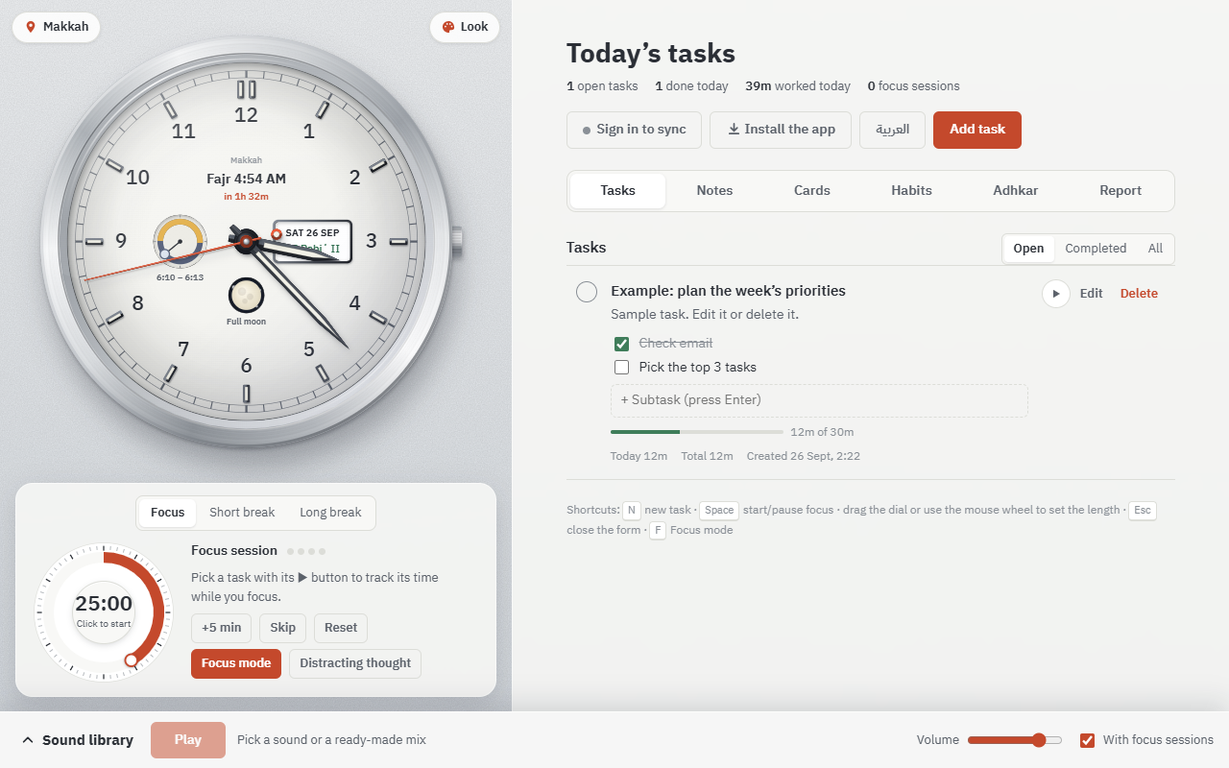
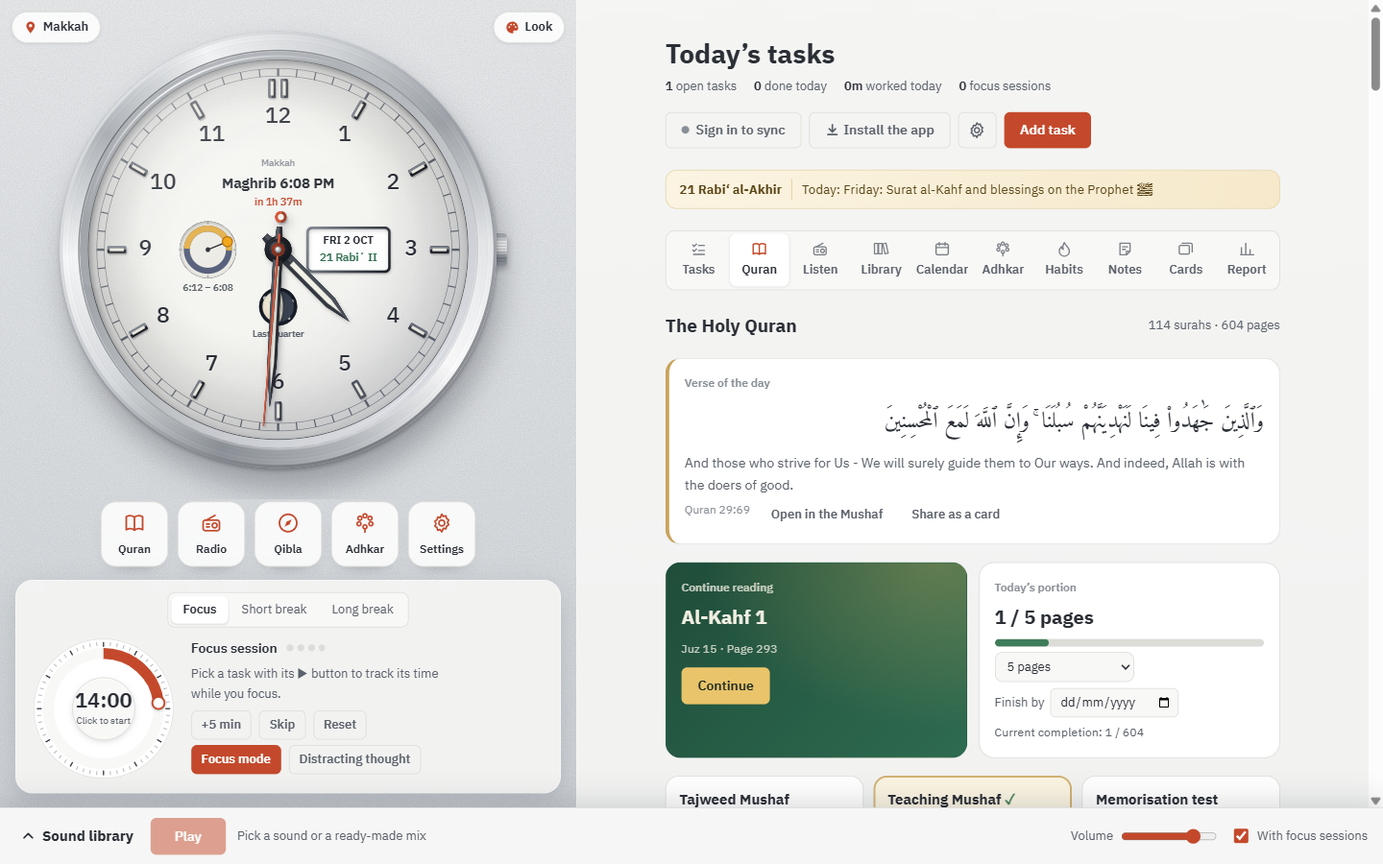
README: the project page for 1.7 — what's new, phone screenshots, sources
New phone screenshots (home, Mushaf, Listen, Settings, fonts, library, adhkar)
and fresh desktop ones in both languages; the Listen tab, live TV, Settings,
fonts and the new books in the features; how releases are tested on an
emulator before they are published, the daily sources check, and the full list
of sources and licences; a fuller Arabic section.

diff --git a/README.md b/README.md
@@ -2,26 +2,46 @@
 
 <img src="docs/logo.svg" width="96" height="96" alt="Muslim To-Do List logo">
 
-# Muslim To-Do List
+# Muslim To-Do List · قائمة مهام المسلم
 
-**Plan your day around the prayers — tasks, focus timer, habits, adhkar and focus sounds, in Arabic and English.**
+**Plan your day around the prayers — the Quran, hadith, Quran radio and live TV from Makkah and Madinah, adhkar, tasks and focus, in Arabic and English.**
+
+**نظّم يومك حول الصلاة: المصحف، والحديث، وإذاعات القرآن، والبث المباشر من الحرمين، والأذكار، والمهام والتركيز.**
 
 [![Open the app](https://img.shields.io/badge/Open%20the%20app-→-c4502b?style=for-the-badge)](https://micro4tricks-ai.github.io/muslim-todo-list/)
 &nbsp;
-[![Android APK](https://img.shields.io/github/v/release/micro4tricks-ai/muslim-todo-list?style=for-the-badge&logo=android&logoColor=white&label=Android%20APK&color=3DDC84)](https://github.com/micro4tricks-ai/muslim-todo-list/releases/latest)
+[![Android APK](https://img.shields.io/github/v/release/micro4tricks-ai/muslim-todo-list?style=for-the-badge&logo=android&logoColor=white&label=Android%20APK&color=3DDC84)](https://micro4tricks-ai.github.io/muslim-todo-list/muslim-todo-list.apk)
 &nbsp;
 ![PWA](https://img.shields.io/badge/PWA-installable-5A0FC8?style=for-the-badge&logo=pwa&logoColor=white)
 &nbsp;
-![Supabase sync](https://img.shields.io/badge/Sync-Supabase-3FCF8E?style=for-the-badge&logo=supabase&logoColor=white)
+![Free, no ads](https://img.shields.io/badge/Free-no%20ads-2E8B6E?style=for-the-badge)
 
 ![License: MIT](https://img.shields.io/badge/License-MIT-blue?style=flat-square)
-[![Android build](https://img.shields.io/github/actions/workflow/status/micro4tricks-ai/muslim-todo-list/android.yml?style=flat-square&label=Android%20build)](https://github.com/micro4tricks-ai/muslim-todo-list/actions/workflows/android.yml)
+[![Android build](https://img.shields.io/github/actions/workflow/status/micro4tricks-ai/muslim-todo-list/android.yml?style=flat-square&label=Android%20build%20%2B%20emulator%20test)](https://github.com/micro4tricks-ai/muslim-todo-list/actions/workflows/android.yml)
+[![Sources check](https://img.shields.io/github/actions/workflow/status/micro4tricks-ai/muslim-todo-list/sources.yml?style=flat-square&label=daily%20sources%20check)](https://github.com/micro4tricks-ai/muslim-todo-list/actions/workflows/sources.yml)
 ![Last commit](https://img.shields.io/github/last-commit/micro4tricks-ai/muslim-todo-list?style=flat-square)
 [![Downloads](https://img.shields.io/github/downloads/micro4tricks-ai/muslim-todo-list/total?style=flat-square&label=APK%20downloads)](https://github.com/micro4tricks-ai/muslim-todo-list/releases)
 
-<a href="https://micro4tricks-ai.github.io/muslim-todo-list/"><img src="docs/screenshot.png" alt="Muslim To-Do List: prayer-times clock, focus timer and tasks" width="860"></a>
+<a href="https://micro4tricks-ai.github.io/muslim-todo-list/"><img src="docs/screenshot.png" alt="Muslim To-Do List: the prayer-times clock, the quick bar and the Listen tab with Quran radio" width="860"></a>
 
-[**Open the app**](https://micro4tricks-ai.github.io/muslim-todo-list/) · [English version](https://micro4tricks-ai.github.io/muslim-todo-list/en/) · [Install on your phone](https://micro4tricks-ai.github.io/muslim-todo-list/install.html) · [Report a problem](https://github.com/micro4tricks-ai/muslim-todo-list/issues/new/choose)
+[**Open the app**](https://micro4tricks-ai.github.io/muslim-todo-list/) · [English version](https://micro4tricks-ai.github.io/muslim-todo-list/en/) · [**Download for Android**](https://micro4tricks-ai.github.io/muslim-todo-list/muslim-todo-list.apk) · [Install on any device](https://micro4tricks-ai.github.io/muslim-todo-list/install.html) · [Report a problem](https://github.com/micro4tricks-ai/muslim-todo-list/issues/new/choose) · [**بالعربي**](#بالعربي)
+
+<br>
+
+<table>
+  <tr>
+    <td align="center"><img src="docs/screens/home.png" width="190" alt="Home: the prayer clock and the quick bar"><br><sub>Home · الرئيسية</sub></td>
+    <td align="center"><img src="docs/screens/quran.png" width="190" alt="The Mushaf with tafsir under each verse"><br><sub>The Mushaf · المصحف</sub></td>
+    <td align="center"><img src="docs/screens/listen.png" width="190" alt="Quran radio from Cairo and Saudi Arabia, and 177 stations"><br><sub>Listen · استماع</sub></td>
+    <td align="center"><img src="docs/screens/settings.png" width="190" alt="The Settings screen"><br><sub>Settings · الإعدادات</sub></td>
+  </tr>
+  <tr>
+    <td align="center"><img src="docs/screens/fonts.png" width="190" alt="Choosing the Arabic and English fonts"><br><sub>Fonts · الخطوط</sub></td>
+    <td align="center"><img src="docs/screens/library.png" width="190" alt="The library: tools and the hadith books"><br><sub>Library · المكتبة</sub></td>
+    <td align="center"><img src="docs/screens/adhkar.png" width="190" alt="Adhkar and duas"><br><sub>Adhkar · الأذكار</sub></td>
+    <td align="center"><img src="docs/screenshot-en.png" width="190" alt="The English interface on a computer"><br><sub>English · الإنجليزية</sub></td>
+  </tr>
+</table>
 
 </div>
 
@@ -30,13 +50,13 @@
 ## Contents
 
 - [About](#about)
+- [What's new in 1.7](#whats-new-in-17)
 - [Features](#features)
-- [Screenshots](#screenshots)
 - [Install](#install)
 - [Tech stack](#tech-stack)
 - [Run locally](#run-locally)
 - [Sync between devices (Supabase)](#sync-between-devices-supabase)
-- [Android releases](#android-releases)
+- [Releases and quality checks](#releases-and-quality-checks)
 - [Project structure](#project-structure)
 - [Contributing](#contributing)
 - [Privacy](#privacy)
@@ -46,46 +66,44 @@
 
 ## About
 
-A calm daily planner built around the five prayers. The left side is a watch-face clock that shows the next prayer, sunrise and sunset, the moon phase and the Hijri and Gregorian dates. The right side is your day: tasks split around the prayers, sticky notes, review cards, habits, adhkar and a focus report. A Pomodoro timer and a library of focus sounds sit underneath.
+A calm daily companion built around the five prayers, made as an ongoing charity (*sadaqa jariya*): **free, with no ads and no tracking**. A watch-face clock shows the next prayer, sunrise and sunset, the moon and the Hijri and Gregorian dates. Around it: the full Mushaf with nine tafsirs, the six hadith books and more, Quran radio and live TV from the Two Holy Mosques, adhkar, a Hijri calendar with Sunnah fasting reminders, and a day of tasks, habits and focus sessions.
 
-It runs in any browser, installs as an app on phones, tablets and desktops, works offline after the first visit, and can sync between your devices. It opens in Arabic by default; one button switches everything to English.
+It runs in any browser, installs as an app on phones, tablets and computers, works offline after the first visit, and can sync between your devices. It opens in Arabic; one switch turns everything to English.
+
+## What's new in 1.7
+
+| | |
+|---|---|
+| 📻 **Quran radio that keeps playing** | In the Android app the Listen tab plays through a native player (Media3 / ExoPlayer): it carries on with the screen off, shows the media notification and lock-screen controls, pauses for calls and the adhan and comes back after. Quran Radio from **Cairo** and from **Saudi Arabia** now play in the app. |
+| 📺 **Live TV without ads** | The Quran channel from al-Masjid al-Haram and the Sunnah channel from the Prophet's Mosque. In the app it starts with the broadcaster's own stream (up to 1080p, no ads), then YouTube, then a lighter link — each one handing over to the next if it fails. |
+| ⚙ **A real Settings screen** | One screen, laid out like Android's: language, location and prayer times, adhan and alerts, colours, fonts, account, about. The phone's back key steps back through it. |
+| 🔤 **Fonts** | 9 Arabic fonts (IBM Plex, Cairo, Tajawal, Almarai, Noto Kufi, Noto Naskh, Readex, El Messiri, Amiri) and 5 English ones, each with a live sample — kept with the app, so they work offline. |
+| 📚 **More books** | Sunan ad-Darimi, Musnad Ahmad (the Rightly Guided Caliphs' part) and Shah Waliullah's Forty — 17 books in the library. |
+| ↩ **Back key** | Steps back (a book, a reciter, focus mode, Settings, the Mushaf) instead of closing the app; at the start it sends the app to the background, so the radio and the adhan carry on. |
 
 ## Features
 
 | | Feature | Details |
 |:-:|---|---|
-| 🕰 | **Prayer clock** | Watch-face clock with the next prayer and a countdown, sunrise/sunset, moon phase, Hijri + Gregorian date. 32 countries and 12 calculation methods (Egyptian Survey, Umm al-Qura, Dubai…). Custom dial, frame and background colours. |
-| 📖 | **The Holy Quran** | The full Mushaf in the Uthmani script (Hafs, Tanzil text) with the Sahih International English translation, verse-by-verse recitation from 9 reciters (including al-Husary’s teaching recitation), a colour-coded tajweed Mushaf, a teaching mode (repeat each verse, pause to repeat after the reciter, slower speed) and a memorisation test, 9 tafsirs (al-Muyassar, as-Sa‘di, Ibn Kathir, at-Tabari, al-Qurtubi, al-Baghawi, al-Wasit, al-Jalalayn, and Ibn Kathir in English), word-by-word meanings with each word’s pronunciation, translations in ten languages, a completion plan by date, a verse of the day, a children’s Juz ‘Amma with stars, verses to memorisation cards, bookmarks, search (Arabic, English, `2:255` or a page number), "continue reading", a daily wird counted in pages, completion tracking, and light / sepia / night pages. Works offline once opened. |
-| 📅 | **Hijri calendar and Sunnah reminders** | Umm al-Qura month view with a day shift for local moon sighting; reminders the evening before Monday and Thursday fasts, the White Days (13–15), Arafah, Tasu‘a and Ashura, six of Shawwal, Ramadan and its last ten nights, and the ten days of Dhul-Hijjah; no-fasting days (the two Eids, Tashreeq) are marked. Each one shows its hadith with the reference and grading. Friday (Surat al-Kahf) and morning/evening adhkar reminders too. |
-| 📚 | **Library** | The six hadith books (al-Bukhari, Muslim, Abu Dawud, at-Tirmidhi, an-Nasa’i, Ibn Majah) and al-Muwatta, in Arabic with English, plus an-Nawawi’s Forty, the Forty Qudsi, Riyad as-Salihin, Bulugh al-Maram, al-Adab al-Mufrad, ash-Shama’il and Mishkat al-Masabih, and the gradings of al-Albani, Shu‘ayb al-Arna’ut, Ahmad Shakir and others; a “sahih and hasan only” filter, search and hadith numbers, saved hadiths. Chapters download on first use and stay offline. |
-| 🕋 | **My prayers** | Log each prayer (in congregation, on time, late, missed), the twelve sunnah rak‘ahs, witr, duha and qiyam; a week at a glance and a count of prayers to make up. |
-| 🌙 | **Ramadan** | Imsak and iftar countdowns, the iftar and Laylat al-Qadr supplications, a tracker for the month’s fasts (and days to make up), a shareable imsakiya, and a suhoor reminder. |
-| 🧰 | **Tools** | Zakat calculator (gold/silver nisab, savings, trade goods, debts, jewellery option, Zakat al-Fitr), Umrah and Hajj guides with their hadiths, the 99 Names, istikhara, nearby mosques (OpenStreetMap), Hijri ⇄ Gregorian converter, and a backup file. |
-| 🕌 | **The Prophet’s prayer ﷺ** | The prayer from the takbir to the taslim in the order of al-Albani’s *Sifat Salat an-Nabi*, each step with its authentic hadith (the book itself is linked on al-Maktaba al-Shamela, not copied). |
-| 🧭 | **Qibla** | Direction and distance to the Kaaba from your place, with a live compass on phones. |
-| ✅ | **Tasks** | Subtasks, estimated time, time tracking, and the day split by prayer (after Fajr, after Dhuhr…). Keyboard shortcuts. |
-| 🎯 | **Focus** | Pomodoro timer with a draggable dial, full-screen focus mode, a "distracting thought" box, useful breaks (dhikr, movement, water, breathing) and prayer alerts. |
-| 🗒 | **Sticky notes** | Coloured notes you drag to arrange and pin; turn any note into a task. |
-| 🃏 | **Review cards** | Question-and-answer decks with spaced repetition (Leitner system), card designs per deck and a daily review reminder. |
-| 🔔 | **Reminder cards and the adhan** | Reminders appear as designed cards (six designs) that can be shared as images; the prayer alert plays one of four adhan recordings (see `sounds/adhan/CREDITS.md`), with a separate Fajr adhan and an iqamah reminder, also as the Android notification sound. |
-| 📲 | **Home-screen widget** | Android widget with the next prayer, a live countdown and the day’s five times. |
-| 🔁 | **Habits and wird** | Adhkar, Quran reading, istighfar, qiyam, fasting… with streaks and a 12-week calendar. |
-| 📿 | **Adhkar and duas** | Morning and evening, after prayer, for students, ease and success, worry and clarity, ruqyah, sleep and istighfar — with a counter, audio recitation and a tasbih. |
-| 📊 | **Report** | Today, the last week or month, or any range: focus, tasks, habits, Quran pages and fasting days, with charts and your best time to focus. |
-| 🎧 | **Focus sounds** | 32 recordings (rain, nature, places, noise, binaural…) that you mix, plus your own music folder from the device. |
-| 🌗 | **Dark mode and text size** | Light, dark or following the device, for the whole app, and four text sizes. |
-| 🌐 | **Arabic ⇄ English** | Full RTL/LTR switch, remembered per device. Direct English link: `/en/` or `?lang=en`. |
+| 🕰 | **Prayer clock** | Watch-face clock with the next prayer and a countdown, sunrise/sunset, moon phase, Hijri + Gregorian date. 32 countries and 12 calculation methods (Egyptian Survey, Umm al-Qura, Dubai…). Custom dial, frame and background. |
+| 📖 | **The Holy Quran** | The full Mushaf in the Uthmani script (Hafs, Tanzil text) with the Sahih International translation; verse-by-verse recitation from 9 reciters (including al-Husary's teaching recitation); a colour-coded tajweed Mushaf; a teaching mode (repeat each verse, pause to repeat after the reciter, slower speed) and a memorisation test; **9 tafsirs** (al-Muyassar, as-Sa‘di, Ibn Kathir, at-Tabari, al-Qurtubi, al-Baghawi, al-Wasit, al-Jalalayn, Ibn Kathir in English), shown under each verse if you like; word-by-word meanings with pronunciation; a completion plan; a daily wird; Juz ‘Amma for children; bookmarks, search, "continue reading", and light / sepia / night pages. Works offline once opened. |
+| 📻 | **Listen** | **177 Quran radio stations** (reciters, mixed and adhkar, tafsir and lessons, translations of the meanings) plus Quran Radio from Cairo; **241 reciters** in every riwayah (Hafs, Warsh, Qalun, ad-Duri…), whole surahs one after another; **audio tafsir** (at-Tabari's summary, by surah and verses); favourites, "continue listening" from the same minute, and a sleep timer. |
+| 📺 | **Live TV** | Live from al-Masjid al-Haram and the Prophet's Mosque — the official broadcast of the Quran and Sunnah channels, in the app without ads. |
+| 📅 | **Hijri calendar and Sunnah reminders** | Umm al-Qura month view with a day shift for local moon sighting; reminders for Monday and Thursday fasts, the White Days, Arafah, Ashura, six of Shawwal, Ramadan and its last ten nights, and the ten days of Dhul-Hijjah, each with its hadith, reference and grading; no-fasting days marked; Friday and adhkar reminders. |
+| 📚 | **Library** | The six hadith books and al-Muwatta (Arabic with English and the gradings of al-Albani, Shu‘ayb al-Arna’ut, Ahmad Shakir and others; a "sahih and hasan only" filter), plus Sunan ad-Darimi, Musnad Ahmad (the Caliphs' part), an-Nawawi's Forty, the Forty Qudsi, Shah Waliullah's Forty, Riyad as-Salihin, Bulugh al-Maram, al-Adab al-Mufrad, ash-Shama’il and Mishkat al-Masabih. Search, hadith numbers, saved hadiths; chapters stay offline once read. |
+| 🕌 | **The Prophet's prayer ﷺ** | The prayer from the takbir to the taslim in the order of al-Albani's *Sifat Salat an-Nabi*, each step with its authentic hadith (the book itself is linked on al-Maktaba al-Shamela, not copied). |
+| 🕋 | **My prayers** | Log each prayer (in congregation, on time, late, missed), the sunnah rak‘ahs, witr, duha and qiyam; a week at a glance and a count of prayers to make up. |
+| 🌙 | **Ramadan** | Imsak and iftar countdowns, the iftar and Laylat al-Qadr supplications, a fasting tracker, a shareable imsakiya and a suhoor reminder. |
+| 🧰 | **Tools** | Zakat calculator, Umrah and Hajj guides with their hadiths, the 99 Names, istikhara, nearby mosques (OpenStreetMap), Hijri ⇄ Gregorian converter, and a backup file. |
+| 🧭 | **Qibla** | Direction and distance to the Kaaba, with a live compass on phones. |
+| 📿 | **Adhkar and duas** | Morning and evening, after prayer, for students, ease, worry, ruqyah, sleep and istighfar — with a counter, audio and a tasbih. |
+| 🔔 | **Adhan and alerts** | Four adhan recordings plus a separate Fajr adhan, played by the phone's alarm clock even when the app is closed (and, if you wish, on silent mode); an iqamah reminder; reminders as designed cards you can share. |
+| 📲 | **Home-screen widget** | The next prayer, a live countdown and the day's five times. |
+| ✅ | **Tasks and focus** | Tasks with subtasks and time tracking, the day split by prayer; a Pomodoro timer, full-screen focus mode, useful breaks, sticky notes, review cards with spaced repetition, habits with streaks, and a report with charts. |
+| 🎧 | **Focus sounds** | 32 recordings (rain, nature, places, noise…) to mix, plus your own music folder. |
+| ⚙ | **Settings, fonts, dark mode** | One Settings screen; 9 Arabic and 5 English interface fonts; light, dark or following the device; four text sizes. |
+| 🌐 | **Arabic ⇄ English** | Full RTL/LTR switch. Direct English link: `/en/` or `?lang=en`. |
 | 🔄 | **Sync** | Email and password sign-in; tasks and settings sync across devices through Supabase. |
-| 📱 | **Installable** | PWA on every platform, plus a free Android app with prayer, fasting and season notifications that arrive even when the app is closed. |
-
-## Screenshots
-
-<table>
-  <tr>
-    <td width="50%"><img src="docs/screenshot.png" alt="Arabic interface"><p align="center"><sub>Arabic (default)</sub></p></td>
-    <td width="50%"><img src="docs/screenshot-en.png" alt="English interface"><p align="center"><sub>English</sub></p></td>
-  </tr>
-</table>
 
 ## Install
 
@@ -93,24 +111,25 @@ Step-by-step page for every device: **[install.html](https://micro4tricks-ai.git
 
 | Device | How |
 |---|---|
-| **Android** | Download the [APK from the site](https://micro4tricks-ai.github.io/muslim-todo-list/muslim-todo-list.apk) (also on the [releases page](https://github.com/micro4tricks-ai/muslim-todo-list/releases/latest)). It is a full app, and prayer alerts arrive even when it is closed. Or use "Install app" in Chrome. |
+| **Android** | Download the [APK from the site](https://micro4tricks-ai.github.io/muslim-todo-list/muslim-todo-list.apk) (also on the [releases page](https://github.com/micro4tricks-ai/muslim-todo-list/releases/latest)). To update later: Settings → About → "Check for updates". |
 | **iPhone / iPad** | In Safari: Share → "Add to Home Screen". |
-| **Desktop** | The "Install the app" button above the task list, or the install icon in the address bar. |
+| **Computer** | The "Install the app" button above the task list, or the install icon in the address bar. |
 
-After the first visit the app works offline (`sw.js`), and every sound you have played once is kept on the device.
+After the first visit the app works offline (`sw.js`); the radio, live TV and recitations need the internet.
 
 ## Tech stack
 
 | Layer | Used |
 |---|---|
 | App | HTML5, CSS3 and vanilla JavaScript — no framework, no build step |
-| Clock | Canvas 2D, with a lighter path on touch devices for smooth phone performance |
+| Clock | Canvas 2D, with a lighter path on touch devices |
 | Prayer times | Own implementation of the [PrayTimes.org](http://praytimes.org) algorithm |
 | Offline / install | Service worker (`sw.js`) + Web App Manifest |
-| Sync | [Supabase](https://supabase.com) (Postgres with row-level security, email and password auth) |
-| Android | [Capacitor](https://capacitorjs.com) 8 with native local notifications |
-| CI/CD | GitHub Actions: signed APK on every `v*` tag, emulator smoke test, GitHub Pages deploy |
-| Data tools | Python scripts that build the adhkar, Mushaf and hadith data from their sources, so no religious text is typed by hand |
+| Sync | [Supabase](https://supabase.com) (Postgres with row-level security) |
+| Android | [Capacitor](https://capacitorjs.com) 8; native Java for the adhan (alarm clock + foreground service), the widget, the back key and the Listen player ([Media3 ExoPlayer](https://developer.android.com/media/media3) with a media session) |
+| Live TV | [hls.js](https://github.com/video-dev/hls.js) (local copy) and the YouTube IFrame API |
+| CI/CD | GitHub Actions: signed APK on every `v*` tag, a full test on an Android emulator before the release is published, GitHub Pages deploy, and a daily check of every outside source |
+| Data tools | Python and Node scripts that build the adhkar, Mushaf, hadith and font data from their sources, so no religious text is typed by hand |
 
 ## Run locally
 
@@ -120,103 +139,75 @@ cd muslim-todo-list
 python -m http.server 8765      # then open http://localhost:8765
 ```
 
-On Windows you can also double-click `تشغيل.bat`, which starts a small local server so the sounds loop without a gap. Opening `index.html` directly works too.
+On Windows you can also double-click `تشغيل.bat`.
 
 ## Sync between devices (Supabase)
 
-The **Sync** button signs in with an email and password (with a sign-in link as a fallback) and syncs your tasks and settings across devices. To set it up once on your own Supabase project:
+The account (Settings → Account & sync) signs in with an email and password and syncs tasks and settings. To set it up on your own Supabase project:
 
 1. Create a free project on [supabase.com](https://supabase.com).
-2. **SQL Editor → New query:** paste `supabase/schema.sql` and press **Run**.
-3. **Authentication → URL Configuration:** set *Site URL* to the site's address, and add the site and `http://localhost:8765/` to *Redirect URLs*.
+2. **SQL Editor:** run `supabase/schema.sql`.
+3. **Authentication → URL Configuration:** set the *Site URL* and add the site and `http://localhost:8765/` to *Redirect URLs*.
 4. **Project Settings → API:** copy the *Project URL* and the *anon public key* into `js/config.js`.
 
-**Synced:** tasks (with subtasks and time), city and calculation method, appearance, sound choices, language.
-**Kept per device:** the focus timer, the background image, the music folder.
+## Releases and quality checks
 
-## Android releases
+1. Push a version tag: `git tag v1.7.2 && git push origin v1.7.2`.
+2. GitHub Actions builds a signed APK, installs the debug build on an **Android emulator** and goes through the app like a person would: every tab, the Mushaf, the library, both Quran radios on the native player, live TV, every Settings page, a font change, the back key, the adhan, the widget, and a renderer crash it must recover from. It measures memory and freezes, and **the release is published only if nothing is wrong**.
+3. The site is redeployed with the new APK next to it and `version.json`, which the app's "Check for updates" reads.
 
-1. Edit the site files as usual.
-2. Create and push a version tag: `git tag v1.0.5 && git push origin v1.0.5`
-3. GitHub Actions builds a signed APK, publishes it on the releases page, and tests it on an Android emulator (screenshots are in the run's results).
+Every day, [`sources.yml`](.github/workflows/sources.yml) checks every outside service the app reads from (radio, TV, recitations, tafsir, hadith, adhkar audio) and turns red when one is down. Live links live in [`live.json`](live.json) on the site, so a dead link is fixed there **without an app update**.
 
-The signing key lives in the repository secrets, and its original copy is kept outside the repository. **Don't lose it:** every update must be signed with the same key, or phones will refuse to install it.
+The signing key lives in the repository secrets, and its original copy is kept outside the repository: every update must be signed with the same key.
 
 ## Project structure
 
 | Path | Description |
 |---|---|
-| `index.html` | The page and its styles |
-| `en/index.html` | Direct link to the English version |
-| `install.html` | Install steps for every device |
+| `index.html`, `en/`, `install.html` | The page and its styles, the English link, install steps |
 | `js/i18n.js` | Translation and the Arabic ⇄ English switch |
-| `js/clock.js` | Drawing the clock, hands and dial |
-| `js/astro.js` | Location, prayer times, moon and dates |
-| `js/look.js` | Dial, frame and page background colours |
-| `js/sounds.js` | Sound library |
-| `js/tasks.js` | Tasks and the focus timer |
-| `js/views.js` | Section tabs and shared helpers |
-| `js/notes.js` | Sticky notes |
-| `js/cards.js` | Review cards |
-| `js/habits.js` | Habits and wird |
-| `js/adhkar.js`, `js/adhkar-data.js` | Adhkar and duas, and their texts |
-| `js/focus-plus.js` | Distraction box, session log, useful breaks |
-| `js/focus-mode.js` | Full-screen focus mode |
-| `js/prayer-alerts.js` | Prayer alerts |
-| `js/report.js` | The report |
+| `js/clock.js`, `js/astro.js` | The clock; location, prayer times, moon and dates |
+| `js/look.js`, `fonts/` | Colours, backgrounds, text size and the interface fonts (`fonts/extra.css` from `tools/build_fonts.py`) |
+| `js/settings.js` | The Settings screen |
+| `js/views.js` | Tabs, shared helpers and the back-key handler |
 | `js/quran.js`, `js/quran-meta.js`, `quran/` | The Mushaf reader and its texts |
-| `js/sunnah.js`, `js/sunnah-data.js` | Hijri calendar, fasting and season reminders, and their evidence |
-| `js/qibla.js` | Qibla direction and compass |
-| `js/library.js`, `js/library-meta.js`, `js/salah-data.js` | The hadith library and the Prophet’s prayer |
-| `js/remind-card.js` | Reminder cards and sharing them as images |
-| `js/prayers.js` | My prayers: the five prayers, sunnah prayers and make-up count |
-| `js/tools.js`, `js/extras-data.js` | Zakat, Hajj and Umrah, the Names, istikhara, mosques, date converter, backup |
-| `sounds/adhan/` | Adhan recordings and their licences |
-| `js/config.js` | Supabase project settings |
-| `js/sync-core.js` | Rules for merging data between devices |
-| `js/sync.js` | Sign-in and sync |
-| `js/app.js` | Install button and home-screen shortcuts |
-| `js/native.js` | Prayer, focus and Sunnah notifications inside the Android app |
-| `js/vendor/supabase.js` | Supabase client (local copy, MIT license) |
-| `supabase/schema.sql` | Database table and its access rules |
-| `sounds/` | Sound recordings |
-| `manifest.webmanifest`, `icons/` | Installable-app metadata and icons |
-| `sw.js` | Offline support |
-| `tools/build_adhkar.py` | Builds the adhkar data from its sources |
-| `tools/build_quran.py` | Builds the Mushaf data from api.alquran.cloud (Tanzil) |
-| `tools/build_sunnah.py` | Cuts the hadith evidence out of the hadith collections |
-| `tools/build_salah.py` | Builds the prayer steps with their hadiths |
-| `tools/build_library.py` | Builds the index of the hadith library |
-| `tools/build_extras.py` | Builds the texts for the tools, Ramadan and the verse / hadith of the day |
-| `app/` | Android app project (Capacitor); it takes the site files as they are |
-| `fastlane/metadata/android/` | Store texts, icon and screenshots (Arabic and English) |
-| `docs/PUBLISHING.md` | How to list the app on F-Droid, Samsung, Huawei and Google Play |
-| `.github/workflows/android.yml` | Builds, signs, publishes and tests the APK |
-| `docs/` | Logo, screenshots and social preview |
+| `js/listen.js`, `live.json`, `tv.html`, `js/vendor/hls.light.min.js` | Radio, recitations, audio tafsir and live TV |
+| `js/library.js`, `js/library-meta.js`, `js/salah-data.js` | The hadith library and the Prophet's prayer |
+| `js/sunnah.js`, `js/sunnah-data.js` | Hijri calendar and Sunnah reminders |
+| `js/adhkar.js`, `js/adhkar-data.js` | Adhkar and duas |
+| `js/prayers.js`, `js/prayer-alerts.js`, `js/native.js` | My prayers, prayer alerts, and the Android notifications and adhan |
+| `js/tasks.js`, `js/notes.js`, `js/cards.js`, `js/habits.js`, `js/focus-*.js`, `js/report.js`, `js/sounds.js` | Tasks, notes, review cards, habits, focus, report, sounds |
+| `js/tools.js`, `js/qibla.js`, `js/remind-card.js` | Tools, Qibla, reminder cards |
+| `js/sync*.js`, `js/config.js`, `supabase/schema.sql` | Sync |
+| `app/` | The Android app (Capacitor); Java in `app/android/app/src/main/java/…/muslimtodo/` (`PlayerService`, `PlayerPlugin`, `Adhan*`, `PrayerWidget`, `MainActivity`) |
+| `app/scripts/smoke.mjs` | The emulator test |
+| `tools/build_*.py` | Build the Quran, adhkar, hadith, salah, extras and font data from their sources |
+| `tools/check_sources.mjs`, `tools/refresh_live.mjs` | The daily sources check and the live-video refresher |
+| `.github/workflows/` | `android.yml` (build, test, release), `pages.yml` (site), `sources.yml` (daily check) |
+| `fastlane/metadata/android/`, `docs/PUBLISHING.md` | Store texts and how to list the app in other stores |
 
 ## Contributing
 
-Bug reports and ideas are welcome.
-
-1. [Open an issue](https://github.com/micro4tricks-ai/muslim-todo-list/issues/new/choose) and describe the device, browser and what happened.
-2. For code changes: fork the repo, create a branch, run `node --check` on the scripts you changed, test in the browser, and open a pull request.
-3. New interface text needs an English entry in `js/i18n.js`.
-4. **Never type adhkar or Quran text by hand.** Regenerate `js/adhkar-data.js` with `python tools/build_adhkar.py`.
+Bug reports and ideas are welcome: [open an issue](https://github.com/micro4tricks-ai/muslim-todo-list/issues/new/choose) with the device and what happened. For code: fork, branch, run `node --check` on the scripts you changed, test in the browser, open a pull request. New interface text needs an English entry in `js/i18n.js`. **Never type Quran, hadith or adhkar text by hand** — regenerate it with the scripts in `tools/`.
 
 ## Privacy
 
-Without sync, everything stays in your browser's local storage and never leaves your device. If you turn on sync, your tasks and settings are stored in the project's Supabase database, protected by row-level security so each account can only read its own data. There are no ads and no analytics. Your music folder is played from your device and is never uploaded.
+Without sync, everything stays on your device. With sync, tasks and settings are stored in the project's Supabase database behind row-level security, so each account reads only its own data. **No ads, no analytics, no tracking.** Your music folder is played from your device and never uploaded.
 
 ## Sources and credits
 
-- **Adhkar:** texts from **Hisn al-Muslim** ([hisnmuslim.com](https://www.hisnmuslim.com)), and verses from the Mushaf through [api.alquran.cloud](https://alquran.cloud) (quran-simple and the Sahih International translation). `tools/build_adhkar.py` generates `js/adhkar-data.js` from them without any text typed by hand, except four well-known duas for students, cited with their sources in the script.
-- **Sounds:** from the [Moodist](https://github.com/remvze/moodist) project, under CC0 and the [Pixabay Content License](https://pixabay.com/service/license-summary/). If the `sounds` folder is missing, the same files load from jsDelivr, pinned to one commit.
-- **Prayer times:** calculations based on the [PrayTimes.org](http://praytimes.org) algorithm.
-- **To-do list:** inspired by [to-do-list-project](https://github.com/nagesh882/to-do-list-project); the focus and time-tracking ideas come from [Super Productivity](https://github.com/super-productivity/super-productivity).
+- **Quran:** Tanzil text through [api.alquran.cloud](https://alquran.cloud); recitations from [cdn.islamic.network](https://islamic.network) and [everyayah.com](https://everyayah.com); word by word from [quran.com](https://quran.com); tafsirs from [spa5k/tafsir_api](https://github.com/spa5k/tafsir_api) and alquran.cloud.
+- **Hadith:** [fawazahmed0/hadith-api](https://github.com/fawazahmed0/hadith-api) and [AhmedBaset/hadith-json](https://github.com/AhmedBaset/hadith-json).
+- **Radio, recitations and audio tafsir:** [mp3quran.net](https://www.mp3quran.net) (its open API); Quran Radio from Cairo through radiojar.
+- **Live TV:** the Quran and Sunnah channels of the Saudi Broadcasting Authority — their own platform [Aloula](https://aloula.sba.sa), their official YouTube channels, and Globecast.
+- **Adhkar:** [Hisn al-Muslim](https://www.hisnmuslim.com). **Adhan recordings:** Wikimedia Commons (see `sounds/adhan/CREDITS.md`).
+- **Fonts:** IBM Plex Sans Arabic, Amiri, Cairo, Tajawal, Almarai, Noto Kufi/Naskh Arabic, Readex Pro, El Messiri, Inter, Roboto, Nunito, Lato and Poppins — SIL Open Font License, from Google Fonts.
+- **Libraries:** Capacitor, Media3 (Apache 2.0), hls.js (Apache 2.0), Supabase JS (MIT).
+- **Sounds:** [Moodist](https://github.com/remvze/moodist) (CC0 and the Pixabay licence). **Prayer times:** the [PrayTimes.org](http://praytimes.org) algorithm.
 
 ## License
 
-The code is released under the [MIT License](LICENSE). Sounds, adhkar and Quran texts keep their original sources and licenses listed above.
+The code is released under the [MIT License](LICENSE). Texts, recordings, broadcasts and fonts keep their own sources and licences listed above.
 
 ---
 
@@ -224,33 +215,37 @@ The code is released under the [MIT License](LICENSE). Sounds, adhkar and Quran 
 
 <div dir="rtl">
 
-**قائمة مهام المسلم:** ساعة عقارب مع مواقيت الصلاة، وطور القمر، والشروق والغروب، والتاريخ الهجري والميلادي، ومؤقت تركيز، وقائمة مهام، ومكتبة أصوات للتركيز. الصفحة بالعربي افتراضياً، وزر **English** أعلى قائمة المهام يحوّلها للإنجليزي.
+**قائمة مهام المسلم** رفيق يومي هادئ مبني حول الصلوات الخمس، معمول **صدقة جارية: مجاني بالكامل، بلا إعلانات وبلا تتبّع**. ساعة عقارب تعرض الصلاة القادمة، والشروق والغروب، والقمر، والتاريخ الهجري والميلادي، وحولها كل ما يحتاجه المسلم في يومه.
+
+### الجديد في الإصدار ١٫٧
+
+- **إذاعات القرآن تعمل والشاشة مقفولة:** في تطبيق أندرويد صار الاستماع بمشغّل أندرويد أصلي، مع التحكم من الإشعارات وشاشة القفل، ويقف وقت المكالمات والأذان ويرجع بعدها. وإذاعة القرآن الكريم من **القاهرة** ومن **السعودية** تعملان الآن.
+- **البث المباشر بلا إعلانات:** قناة القرآن الكريم من المسجد الحرام وقناة السنة النبوية من المسجد النبوي، من البث الرسمي للهيئة بجودة حتى 1080p، ولو تعطّل يتحوّل وحده لمصدر آخر.
+- **صفحة إعدادات مثل تطبيقات أندرويد:** اللغة، والموقع والمواقيت، والأذان والتنبيهات، والألوان، والخطوط، والحساب، وحول التطبيق.
+- **الخطوط:** ٩ خطوط عربية (بلكس، القاهرة، تجوال، المراعي، نوتو كوفي، نوتو نسخ، ريدكس، المسيري، أميري) و٥ إنجليزية، مع معاينة حيّة، وتعمل دون إنترنت.
+- **كتب جديدة:** سنن الدارمي، ومسند الإمام أحمد (مسانيد الخلفاء الراشدين)، والأربعون لولي الله الدهلوي — ١٧ كتاباً في المكتبة.
+- **زر الرجوع:** يرجع خطوة بدل إغلاق التطبيق.
 
 ### الأقسام
 
-- **المهام:** مهام فرعية، ووقت متوقع، وتتبّع الوقت، وتقسيم اليوم حسب أوقات الصلاة (بعد الفجر، بعد الظهر…).
-- **ملاحظات لاصقة:** أوراق ملونة تُسحب لترتيبها وتُثبَّت، ويمكن تحويل أي ورقة إلى مهمة.
-- **كروت المراجعة:** مجموعات سؤال وجواب بمراجعة متباعدة (نظام لايتنر) للحفظ والمذاكرة.
-- **العادات والورد:** أذكار، وورد القرآن، واستغفار، وقيام، وصيام… مع أيام متتالية وتقويم ١٢ أسبوعاً.
-- **الأذكار والأدعية:** الصباح والمساء، وبعد الصلاة، وأدعية طالب العلم، والتوفيق والتيسير، والهم وصفاء الذهن، والرقية الشرعية، والنوم، والاستغفار؛ مع عدّاد وتلاوة صوتية ومسبحة.
-- **التركيز:** مؤقت بومودورو، ووضع تركيز بملء الشاشة، وصندوق المشتتات، واستراحات مفيدة (ذكر، حركة، ماء، تنفس)، وتنبيهات الصلاة.
-- **التقرير:** دقائق التركيز اليومية والأسبوعية، وأفضل وقت للتركيز، والأيام المتتالية.
+- **المصحف الشريف:** الرسم العثماني، و٩ تفاسير معتمدة تظهر تحت كل آية إن شئت، والتلاوة آية بآية لـ٩ قرّاء، ومصحف التجويد الملوّن، والمصحف المعلّم، واختبار الحفظ، ومعاني الكلمات، وخطة الختمة والورد اليومي.
+- **استماع:** ١٧٧ إذاعة، و٢٤١ قارئاً بكل الروايات، والتفسير الصوتي، والبث المباشر من الحرمين، والمفضلة، ومؤقت النوم.
+- **المكتبة:** الكتب الستة والموطأ بأحكام الألباني والأرناؤوط وغيرهما، ورياض الصالحين، وبلوغ المرام، والأدب المفرد، والشمائل، والمشكاة، والأربعينات، والدارمي، ومسند أحمد؛ وصفة صلاة النبي ﷺ على ترتيب كتاب الألباني بأدلتها.
+- **التقويم الهجري وتنبيهات السنن:** صيام الاثنين والخميس والأيام البيض وعرفة وعاشوراء والست من شوال، ورمضان والعشر، بالدليل والتخريج.
+- **صلواتي ورمضان والأدوات:** سجل الصلوات والسنن والقضاء، والإمساكية، وحاسبة الزكاة، ودليل الحج والعمرة، والأسماء الحسنى، والاستخارة، والمساجد القريبة، ومحوّل التاريخ، والقبلة.
+- **الأذكار والأدعية:** الصباح والمساء وبعد الصلاة وغيرها، مع العدّاد والتلاوة الصوتية والمسبحة.
+- **الأذان والتنبيهات:** أربعة أصوات أذان وأذان مستقل للفجر، يعمل والتطبيق مغلق، وتذكير الإقامة، وكروت تذكير تُشارَك صوراً، وويدجت للشاشة الرئيسية.
+- **المهام والتركيز:** مهام فرعية وتتبع الوقت وتقسيم اليوم حسب الصلاة، ومؤقت تركيز، وملاحظات، وكروت مراجعة، وعادات، وتقرير، ومكتبة أصوات للتركيز.
 
 ### التثبيت (مجاناً)
 
-- **أندرويد:** ملف APK من [الموقع مباشرة](https://micro4tricks-ai.github.io/muslim-todo-list/muslim-todo-list.apk) — تطبيق كامل تصل تنبيهات الصلاة فيه والتطبيق مغلق.
+- **أندرويد:** [حمّل التطبيق من الموقع مباشرة](https://micro4tricks-ai.github.io/muslim-todo-list/muslim-todo-list.apk). والتحديثات من: الإعدادات ← حول التطبيق ← «تحقق من وجود تحديث».
 - **آيفون وآيباد:** من Safari ← مشاركة ← «إضافة إلى الشاشة الرئيسية».
 - **الكمبيوتر:** زر «ثبّت التطبيق» أعلى قائمة المهام.
 
-خطوات كل جهاز بالتفصيل في [صفحة التثبيت](https://micro4tricks-ai.github.io/muslim-todo-list/install.html). الصفحة تعمل دون إنترنت بعد أول فتح.
+### الجودة والأمان
 
-### المزامنة
-
-زر **مزامنة** يسجّل الدخول بالبريد الإلكتروني (رابط دخول بدون كلمة مرور) ويزامن المهام والإعدادات بين أجهزتك. خطوات تجهيز Supabase في قسم [Sync between devices](#sync-between-devices-supabase) أعلاه.
-
-### المصادر
-
-نصوص الأذكار من **حصن المسلم** والآيات من المصحف عبر api.alquran.cloud، تولَّد آلياً بالسكربت `tools/build_adhkar.py` دون كتابة يدوية. الأصوات من مشروع Moodist (CC0 ورخصة Pixabay).
+كل إصدار يُجرَّب آلياً على محاكي أندرويد قبل نشره (كل الأقسام، والإذاعات، والبث، والإعدادات، وزر الرجوع، والأذان، والويدجت)، ولا يُنشر إلا إذا لم تظهر أي مشكلة. وكل يوم يُفحص كل مصدر خارجي يعتمد عليه التطبيق، وروابط البث في ملف `live.json` على الموقع تُصلَح دون تحديث التطبيق. لا تُكتب نصوص القرآن والحديث والأذكار يدوياً أبداً، بل تُولَّد آلياً من مصادرها.
 
 </div>
 
@@ -260,6 +255,6 @@ The code is released under the [MIT License](LICENSE). Sounds, adhkar and Quran 
 
 Designed and built by **Mahmoud Habashi · محمود حبشي** — [micro4tricks@gmail.com](mailto:micro4tricks@gmail.com)
 
-If this helps you, ⭐ star the repo so more people can find it.
+If this helps you, ⭐ star the repo so more people can find it — وإن نفعك فادعُ لنا.
 
 </div>
